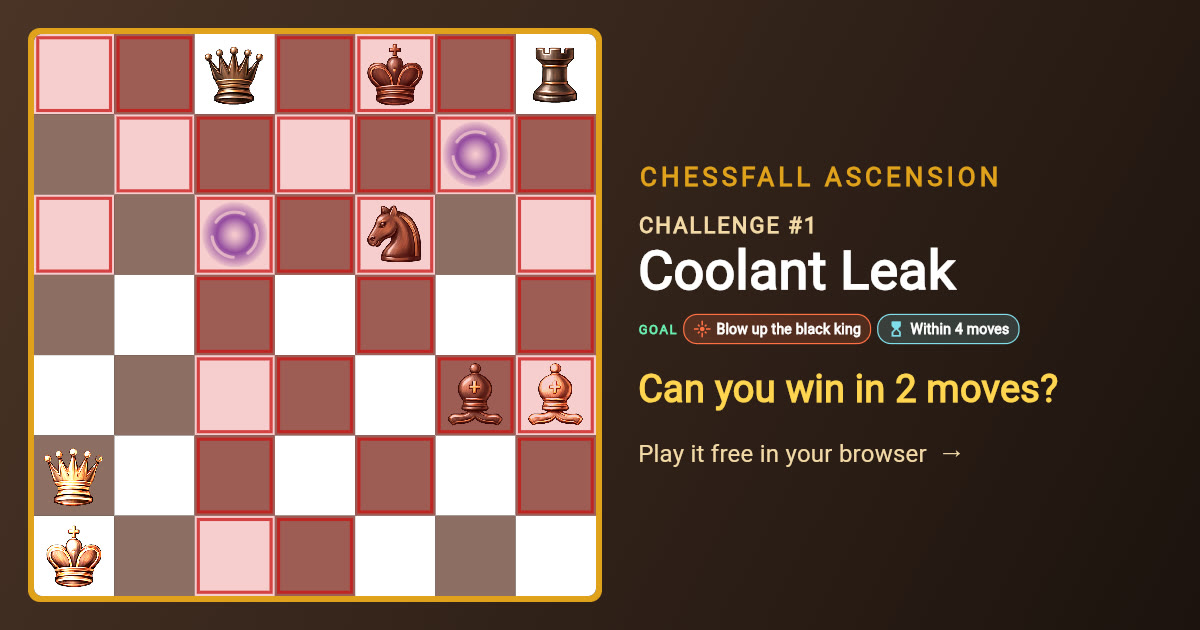
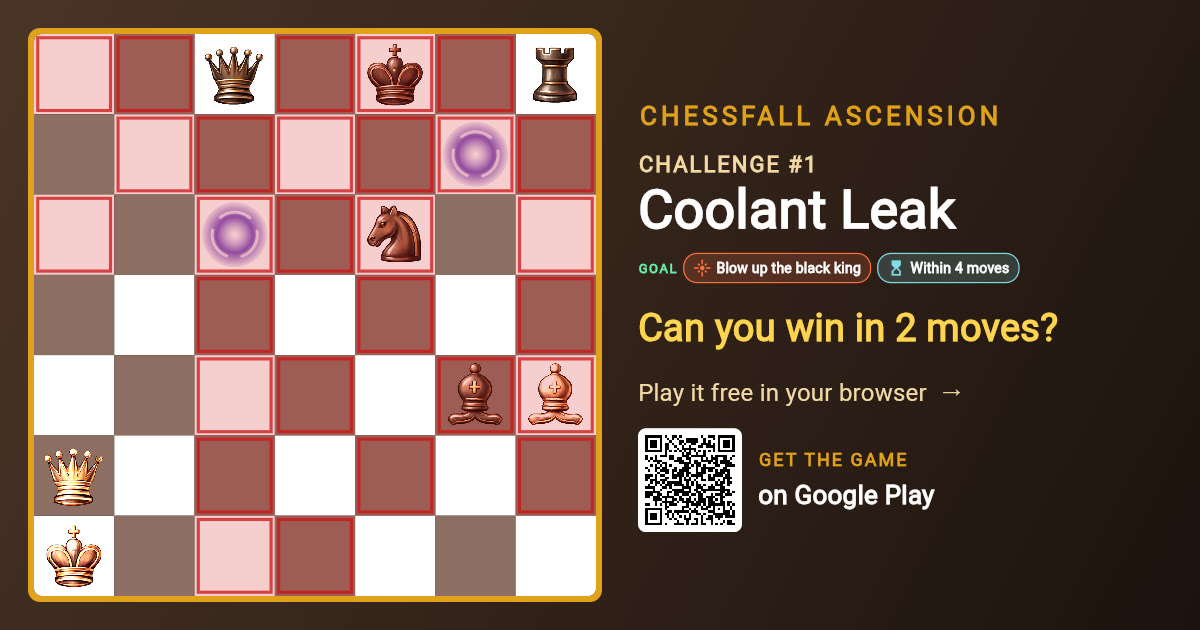
Challenges: Google Play link and QR code
Every preview picture shows a QR code to the game on Google Play; pages
and post texts link to it.

Claude-Session: https://claude.ai/code/session_01M18MQwqJkL9qjtanZw43AB

Changed region(s): [[0.5242, 0.2413, 0.8942, 0.8444], [0.5242, 0.1508, 0.8325, 0.2111]]

diff --git a/coolant_leak.html b/coolant_leak.html
@@ -27,6 +27,7 @@
 <h1>Chessfall Challenge #1: Coolant Leak</h1>
 <p>White to play: Atomic chess: blow up the black king within 4 moves. Can you find it? Play it free in your browser.</p>
 <p><a href="https://claude.ai/artifact/95ZUTPJJ5Dk9oqMZP33fsg#c1">Play the challenge</a></p>
+<p><a href="https://play.google.com/store/apps/details?id=com.originsoft.chessfall_ascension">Get Chessfall Ascension on Google Play</a></p>
 <script>location.replace("https://claude.ai/artifact/95ZUTPJJ5Dk9oqMZP33fsg#c1");</script>
 </body>
 </html>

diff --git a/fuse_stairway.html b/fuse_stairway.html
@@ -27,6 +27,7 @@
 <h1>Chessfall Challenge #4: Fuse Stairway</h1>
 <p>Goal: take both flags - while the board falls. Can you do it in 15 moves? Play it free in your browser.</p>
 <p><a href="https://claude.ai/artifact/95ZUTPJJ5Dk9oqMZP33fsg#c4">Play the challenge</a></p>
+<p><a href="https://play.google.com/store/apps/details?id=com.originsoft.chessfall_ascension">Get Chessfall Ascension on Google Play</a></p>
 <script>location.replace("https://claude.ai/artifact/95ZUTPJJ5Dk9oqMZP33fsg#c4");</script>
 </body>
 </html>

diff --git a/armageddon.html b/armageddon.html
@@ -27,6 +27,7 @@
 <h1>Chessfall Challenge #5: Armageddon</h1>
 <p>White to play: checkmate within 6 moves - black defends. Can you find it? Play it free in your browser.</p>
 <p><a href="https://claude.ai/artifact/95ZUTPJJ5Dk9oqMZP33fsg#c5">Play the challenge</a></p>
+<p><a href="https://play.google.com/store/apps/details?id=com.originsoft.chessfall_ascension">Get Chessfall Ascension on Google Play</a></p>
 <script>location.replace("https://claude.ai/artifact/95ZUTPJJ5Dk9oqMZP33fsg#c5");</script>
 </body>
 </html>

diff --git a/low_cloud.html b/low_cloud.html
@@ -27,6 +27,7 @@
 <h1>Chessfall Challenge #2: Low Cloud</h1>
 <p>White to play: checkmate within 4 moves - black defends. Can you find it? Play it free in your browser.</p>
 <p><a href="https://claude.ai/artifact/95ZUTPJJ5Dk9oqMZP33fsg#c2">Play the challenge</a></p>
+<p><a href="https://play.google.com/store/apps/details?id=com.originsoft.chessfall_ascension">Get Chessfall Ascension on Google Play</a></p>
 <script>location.replace("https://claude.ai/artifact/95ZUTPJJ5Dk9oqMZP33fsg#c2");</script>
 </body>
 </html>

diff --git a/rook_relay.html b/rook_relay.html
@@ -27,6 +27,7 @@
 <h1>Chessfall Challenge #3: Rook Relay</h1>
 <p>Goal: take both flags. Can you do it in 9 moves? Play it free in your browser.</p>
 <p><a href="https://claude.ai/artifact/95ZUTPJJ5Dk9oqMZP33fsg#c3">Play the challenge</a></p>
+<p><a href="https://play.google.com/store/apps/details?id=com.originsoft.chessfall_ascension">Get Chessfall Ascension on Google Play</a></p>
 <script>location.replace("https://claude.ai/artifact/95ZUTPJJ5Dk9oqMZP33fsg#c3");</script>
 </body>
 </html>
